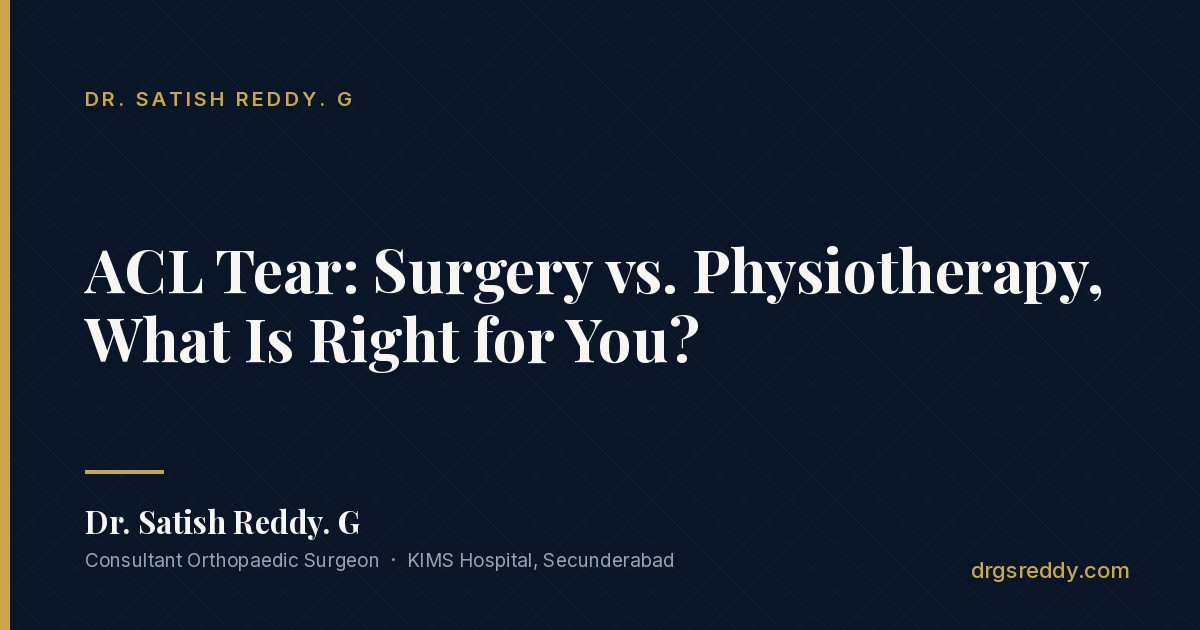
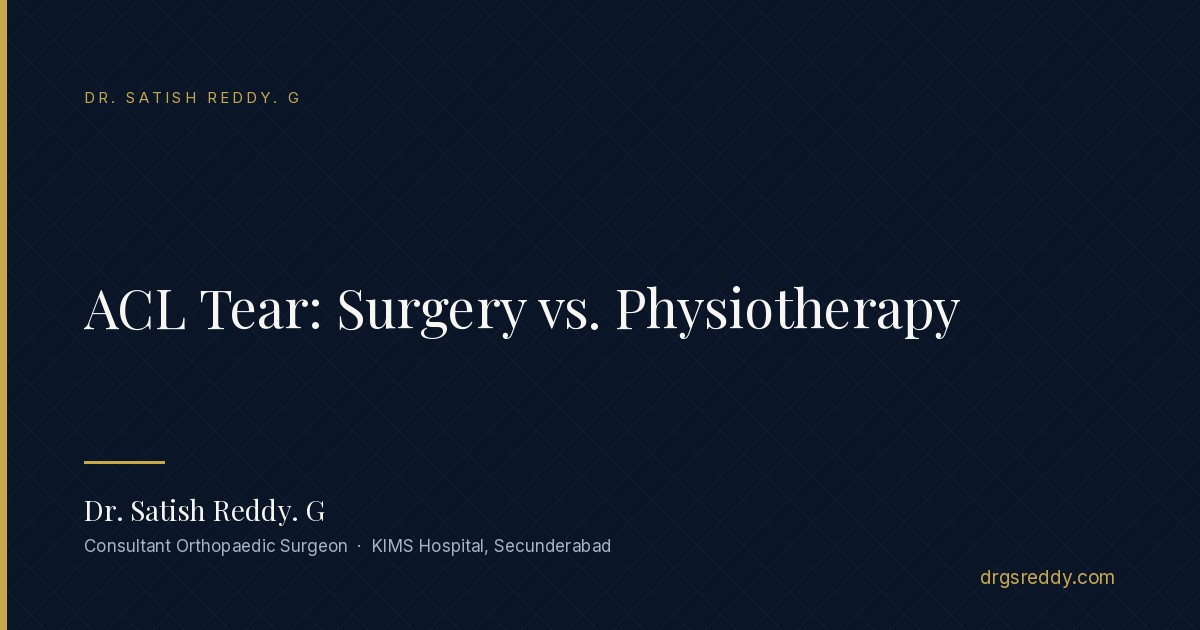
Add files via upload
Add missing og:image tags + images.

diff --git a/meniscal-tears-what-they-are-and-when-surgery-helps.html b/meniscal-tears-what-they-are-and-when-surgery-helps.html
@@ -10,6 +10,11 @@
   <meta property="og:description" content="If a scan or a doctor has told you that you have a meniscal tear, it is natural to feel worried and to assume that an operation must be coming." />
   <meta property="og:url" content="https://drgsreddy.com/meniscal-tears-what-they-are-and-when-surgery-helps.html" />
   <meta property="og:type" content="article" />
+  <meta property="og:image" content="https://drgsreddy.com/meniscal-tears-what-they-are-and-when-surgery-helps.jpg" />
+  <meta property="og:image:width" content="1200" />
+  <meta property="og:image:height" content="630" />
+  <meta name="twitter:card" content="summary_large_image" />
+  <meta name="twitter:image" content="https://drgsreddy.com/meniscal-tears-what-they-are-and-when-surgery-helps.jpg" />
   <link rel="preconnect" href="https://fonts.googleapis.com" />
   <link rel="preconnect" href="https://fonts.gstatic.com" crossorigin />
   <link href="https://fonts.googleapis.com/css2?family=Playfair+Display:ital,wght@0,400;0,600;0,700;1,400&family=Inter:wght@300;400;500;600&display=swap" rel="stylesheet" />
@@ -286,7 +291,7 @@
   <div class="footer__inner">
     <div><div class="footer__brand">Dr. <span>Satish</span> Reddy. G</div><p class="footer__tagline">Consultant Orthopaedic Surgeon<br/>KIMS Hospital, Ministers Road, Secunderabad<br/><br/>MS Orth (Gold Medallist) &nbsp;·&nbsp; Fellowship-trained in Italy, UK &amp; Australia<br/>Pioneer of Orthopaedic Oncology, AP &amp; Telangana</p></div>
     <div><h5>Navigate</h5><ul><li><a href="about.html">About</a></li><li><a href="specialties.html">Specialties</a></li><li><a href="for-doctors.html">For Doctors</a></li><li><a href="blog.html">Patient Education</a></li><li><a href="contact.html">Contact</a></li></ul></div>
-    <div><h5>Contact</h5><div class="footer__contact-item">KIMS Hospital, Ministers Road,<br/>Secunderabad</div><div class="footer__contact-item"><a href="tel:+917075523360">+91 70755 23360</a></div><div class="footer__contact-item"><a href="https://wa.me/917075523360">WhatsApp</a></div></div>
+    <div><h5>Contact</h5><div class="footer__contact-item">KIMS Hospital, Ministers Road,<br/>Secunderabad</div><div class="footer__contact-item"><a href="tel:+917075523360">+91 70755 23360</a><a href="https://wa.me/917075523360" target="_blank" rel="noopener" aria-label="Chat on WhatsApp" style="display:inline-block;margin-left:6px;line-height:0"><svg width="16" height="16" viewBox="0 0 24 24" fill="#25D366" aria-hidden="true" style="vertical-align:middle"><path d="M17.472 14.382c-.297-.149-1.758-.867-2.03-.967-.273-.099-.471-.148-.67.15-.197.297-.767.966-.94 1.164-.173.199-.347.223-.644.075-.297-.15-1.255-.463-2.39-1.475-.883-.788-1.48-1.761-1.653-2.059-.173-.297-.018-.458.13-.606.134-.133.298-.347.446-.52.149-.174.198-.298.298-.497.099-.198.05-.371-.025-.52-.075-.149-.669-1.612-.916-2.207-.242-.579-.487-.5-.669-.51-.173-.008-.371-.01-.57-.01-.198 0-.52.074-.792.372-.272.297-1.04 1.016-1.04 2.479 0 1.462 1.065 2.875 1.213 3.074.149.198 2.096 3.2 5.077 4.487.709.306 1.262.489 1.694.625.712.227 1.36.195 1.871.118.571-.085 1.758-.719 2.006-1.413.248-.694.248-1.289.173-1.413-.074-.124-.272-.198-.57-.347m-5.421 7.403h-.004a9.87 9.87 0 0 1-5.031-1.378l-.361-.214-3.741.982.998-3.648-.235-.374a9.86 9.86 0 0 1-1.51-5.26c.001-5.45 4.436-9.884 9.888-9.884 2.64 0 5.122 1.03 6.988 2.898a9.825 9.825 0 0 1 2.893 6.994c-.003 5.45-4.437 9.884-9.885 9.884m8.413-18.297A11.815 11.815 0 0 0 12.05 0C5.495 0 .16 5.335.157 11.892c0 2.096.547 4.142 1.588 5.945L.057 24l6.305-1.654a11.882 11.882 0 0 0 5.683 1.448h.005c6.554 0 11.89-5.335 11.893-11.893a11.821 11.821 0 0 0-3.48-8.413z"/></svg></a></div></div>
   </div>
   <div class="footer__bottom">© 2026 Dr. Satish Reddy Gandavarapu · All rights reserved</div>
 </footer>

diff --git a/acl-tear-surgery-vs-physiotherapy.html b/acl-tear-surgery-vs-physiotherapy.html
@@ -10,6 +10,11 @@
   <meta property="og:description" content="If you have twisted your knee, felt a pop, and now your knee feels loose or swollen, you may have torn your anterior cruciate ligament, usually called the..." />
   <meta property="og:url" content="https://drgsreddy.com/acl-tear-surgery-vs-physiotherapy.html" />
   <meta property="og:type" content="article" />
+  <meta property="og:image" content="https://drgsreddy.com/acl-tear-surgery-vs-physiotherapy.jpg" />
+  <meta property="og:image:width" content="1200" />
+  <meta property="og:image:height" content="630" />
+  <meta name="twitter:card" content="summary_large_image" />
+  <meta name="twitter:image" content="https://drgsreddy.com/acl-tear-surgery-vs-physiotherapy.jpg" />
   <link rel="preconnect" href="https://fonts.googleapis.com" />
   <link rel="preconnect" href="https://fonts.gstatic.com" crossorigin />
   <link href="https://fonts.googleapis.com/css2?family=Playfair+Display:ital,wght@0,400;0,600;0,700;1,400&family=Inter:wght@300;400;500;600&display=swap" rel="stylesheet" />
@@ -276,7 +281,7 @@
   <div class="footer__inner">
     <div><div class="footer__brand">Dr. <span>Satish</span> Reddy. G</div><p class="footer__tagline">Consultant Orthopaedic Surgeon<br/>KIMS Hospital, Ministers Road, Secunderabad<br/><br/>MS Orth (Gold Medallist) &nbsp;·&nbsp; Fellowship-trained in Italy, UK &amp; Australia<br/>Pioneer of Orthopaedic Oncology, AP &amp; Telangana</p></div>
     <div><h5>Navigate</h5><ul><li><a href="about.html">About</a></li><li><a href="specialties.html">Specialties</a></li><li><a href="for-doctors.html">For Doctors</a></li><li><a href="blog.html">Patient Education</a></li><li><a href="contact.html">Contact</a></li></ul></div>
-    <div><h5>Contact</h5><div class="footer__contact-item">KIMS Hospital, Ministers Road,<br/>Secunderabad</div><div class="footer__contact-item"><a href="tel:+917075523360">+91 70755 23360</a></div><div class="footer__contact-item"><a href="https://wa.me/917075523360">WhatsApp</a></div></div>
+    <div><h5>Contact</h5><div class="footer__contact-item">KIMS Hospital, Ministers Road,<br/>Secunderabad</div><div class="footer__contact-item"><a href="tel:+917075523360">+91 70755 23360</a><a href="https://wa.me/917075523360" target="_blank" rel="noopener" aria-label="Chat on WhatsApp" style="display:inline-block;margin-left:6px;line-height:0"><svg width="16" height="16" viewBox="0 0 24 24" fill="#25D366" aria-hidden="true" style="vertical-align:middle"><path d="M17.472 14.382c-.297-.149-1.758-.867-2.03-.967-.273-.099-.471-.148-.67.15-.197.297-.767.966-.94 1.164-.173.199-.347.223-.644.075-.297-.15-1.255-.463-2.39-1.475-.883-.788-1.48-1.761-1.653-2.059-.173-.297-.018-.458.13-.606.134-.133.298-.347.446-.52.149-.174.198-.298.298-.497.099-.198.05-.371-.025-.52-.075-.149-.669-1.612-.916-2.207-.242-.579-.487-.5-.669-.51-.173-.008-.371-.01-.57-.01-.198 0-.52.074-.792.372-.272.297-1.04 1.016-1.04 2.479 0 1.462 1.065 2.875 1.213 3.074.149.198 2.096 3.2 5.077 4.487.709.306 1.262.489 1.694.625.712.227 1.36.195 1.871.118.571-.085 1.758-.719 2.006-1.413.248-.694.248-1.289.173-1.413-.074-.124-.272-.198-.57-.347m-5.421 7.403h-.004a9.87 9.87 0 0 1-5.031-1.378l-.361-.214-3.741.982.998-3.648-.235-.374a9.86 9.86 0 0 1-1.51-5.26c.001-5.45 4.436-9.884 9.888-9.884 2.64 0 5.122 1.03 6.988 2.898a9.825 9.825 0 0 1 2.893 6.994c-.003 5.45-4.437 9.884-9.885 9.884m8.413-18.297A11.815 11.815 0 0 0 12.05 0C5.495 0 .16 5.335.157 11.892c0 2.096.547 4.142 1.588 5.945L.057 24l6.305-1.654a11.882 11.882 0 0 0 5.683 1.448h.005c6.554 0 11.89-5.335 11.893-11.893a11.821 11.821 0 0 0-3.48-8.413z"/></svg></a></div></div>
   </div>
   <div class="footer__bottom">© 2026 Dr. Satish Reddy Gandavarapu · All rights reserved</div>
 </footer>
